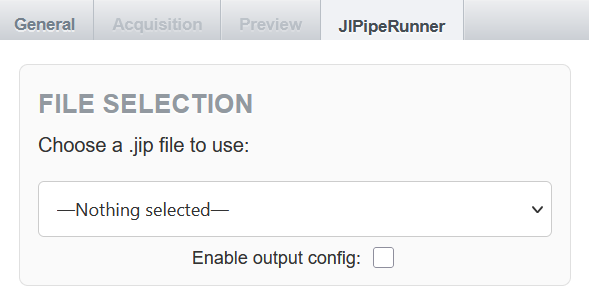
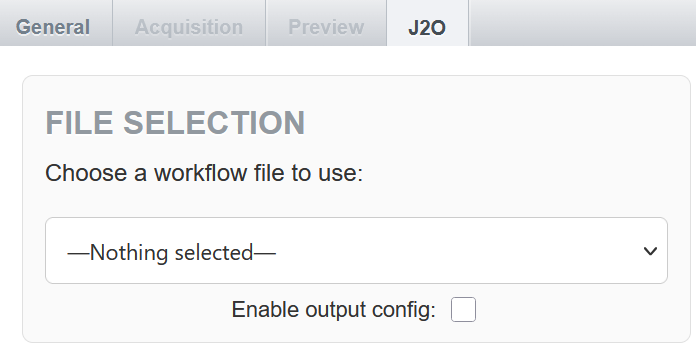
Made changes to the documentation according to recent new features and the namespace change from JIPipeRunner to J2O. More updates will follow.

diff --git a/Writerside/topics/User-interface.md b/Writerside/topics/User-interface.md
@@ -1,3 +1,63 @@
 # User interface
 
-Start typing here...
+If installed correctly, the J2O tab can be found in the right panel of the OMERO webclient:
+
+<p align="center">
+  <img src="RightPanelTab.png" alt="TabPanel.png"/>
+</p>
+
+Below you will find a detailed explanation of the interface sections you will see when opening the plugin.
+
+## FILE SELECTION
+
+J2O will load its content dynamically depending on the file you select at the top of this section. When checking **Enable output config**, the [output node configuration](#output-node-configuration) will be accessible.
+
+<p align="center">
+  <img src="FileSelectionSection.png" alt="FileSelectionSection.png"/>
+</p>
+
+J2O will automatically offer you all .jip files and RO-Crates that are accessible by your OMERO groups. If you have none available, you can upload files as attachments to any of your projects or datasets. To do so, select a dataset or project and go to <b>General → Attachments</b> in the right panel. Click the <b>+</b> to attach a file. To ensure compatibility, be sure that it adheres to the <a href="#pipeline-design-constraints">pipeline design constraints</a>.
+
+<p align="center">
+  <img src="AttachFiles.png" alt="Attach_JIP_File.png"/>
+</p>
+
+## RUNNING JOBS
+In this section you will find a list of all the JIPipe jobs currently running on the server that were initiated by the current user. They can be identified by the time and date of execution and the name of the associated workflow file. By clicking the ✖ next to the entry, you can terminate the associated job after confirming this action.
+
+![Job section](RunningJobsSection.png)
+
+You can also click on the name of a workflow to open a pop-up window that will display a live stream of its logfile:
+
+![Live log pop-up](LogPopUp.png)
+
+## NODE SUMMARY
+In this section you will find an overview of the nodes detected in the associated .jip file. This can be used as a debugging tool to see whether the JIPipe pipeline was constructed correctly according to the [preparing JIPipe workflows section](WorkflowDesign.md) and JIPipeRunner therefore automatically detects the right amount of nodes.
+
+![Node summary section](NodeSummarySection.png)
+
+## INPUT NODE CONFIGURATION
+This section will allow to enter the IDs of the datasets that contain the input images. On clicking the input field, a scrollable dropdown menu will be shown that lists all available datasets according to your OMERO group. You can simply click a listed dataset to add it to the input field. You can also search for a specific dataset by typing its name into the input field. To remove an entry from the input field, click the ✖ next to the ID.
+
+![Input node config section](InputNodeConfigSection.png)
+
+## OUTPUT NODE CONFIGURATION
+When checking **Enable output config** in the [file selection](#file-selection), the output configuration becomes available. Here you can choose a pre-existing project (the same way as selecting the input dataset ID) that you want to save the generated output dataset to and give the dataset a custom name. If you don't enter anything (either when not checking **Enable output config** or when you are not changing the placeholders) the outputs of your pipeline will be saved in a project called "JipipeResultsDefault". The images will be saved within that project in a dataset named after the .jip file and the start time of execution (e.g. FolderListTest.jip@01-09-2025_15:07:41).
+
+![Output node config section](OutputConfigSection.png)
+
+## PARAMETER CONFIGURATION
+This section contains the input fields of the parameters that are defined as reference parameters within the .jip file. Nodes with a predefined set of valid options will have a dropdown menu to choose from. Other nodes will accept strings, integers or floats as input depending on the node type. When hovering the **?** the plugin will display a tooltip with the description of the respective parameter (if it was set in the [project overview](https://jipipe.hki-jena.de/documentation/project-overview.html)).
+
+Below this section you will find the **Start JIPipeRunner** button to execute the selected .jip file.
+
+![Parameter config section](ParameterConfigSection.png)
+
+## LOG WINDOW
+Below the button that starts the pipeline execution, you will find the log window. During execution, the window will livestream the JIPipe logfile. This can be used to check on the current progress of the execution or to debug problems within the workflow. Any additional information will also be displayed here. For example, if an error occurs a helpful message will tell you what went wrong.
+
+![Log window section](LogWindowSection.png)
+
+The log window will only ever display the content of the log file from the most recent job started by the user. To review old log files or to inspect errors of jobs that ran in the background, you can find the log files under the attachment tab of the output dataset. By clicking on the file, an automated download will be started.
+
+![Old log files](FindLogFiles.png)

diff --git a/Writerside/topics/WorkflowDesign.md b/Writerside/topics/WorkflowDesign.md
@@ -3,38 +3,3 @@
 J2O imposes some constraints on the design of JIPipe workflows to ensure compatability with the plugin. In this section you will learn what to be aware of. 
 
 If your workflow does not comply to these constraints yet, it is quite easy to make the necessary changes.
-
-## Create user directories
-
-J2O utilizes JIPipe user directories to facilitate saving processed data to OMERO and using OMERO image data as input for custom scripts or expression nodes. 
-
-> To create user directories, navigate to the project overview and click the "Directories" button and select "Add new directory".
-
-### Output directories
-
-To store processed data back to OMERO you will need to create at least one output user directory. To mark a directory as output, include "output" in the key you set for the directory. These output directories will then need to be used in the [export nodes](#export-nodes).
-
-> Output directories are used to store both image and non-image data to OMERO
-
-### Input directories
-
-To use OMERO image data as input in custom scripts and JIPipe expression nodes, you need at least one input directory. To mark a directory as input, include "input" in the key you set for the directory.
-
-> Input directories can only be used to get image data from OMERO! For importing non-image data use RO-Crates, available since JIPipe 6.0.0
-
-
-## Input nodes
-
-### Image input
-To use your OMERO image data as input for workflows executed with J2O, your workflows need to use one of the following input nodes.
-
-![Input patterns](../images/assets/images/InputStructure.png)
-
-> The "Project user directory" node can be used by entering the key of an input user directory in its parameter config 
-### Non-image input
-Using non-image inputs in your workflows is only supported when your workflow is exported in a RO-Crate, a feature introduced in JIPipe 6.0.0. 
-
-
-## Export nodes
-
-## Reference parameters

diff --git a/Writerside/topics/Export-nodes.md b/Writerside/topics/Export-nodes.md
@@ -1,0 +1,13 @@
+# Export nodes
+Here you will find an overview of all supported nodes to save your processed data back to OMERO using J2O. If your workflow already uses these to export data, you don't need to change them. Otherwise, you will need to replace unsupported export nodes with one of these.
+
+> It is recommended to give your export nodes custom names to help users identify their purpose!
+
+Using these nodes, image data will be saved to OMERO datasets while non-image data will be attached to the respective datasets:
+![Supported export nodes](../images/assets/images/ExportNodes.png)
+
+To be fully compatible, J2O expects the *file-path* parameter of these nodes to use the PATH_COMBINE() expression with the first argument being an output user directory and the second argument being the name of the saved file, for example:
+
+![Export nodes expression](../images/assets/images/ExportNodeExpression.png)
+
+> The *auto_file_name* expression constructs the filename from the annotations of the exported file. While convenient, we recommend developers to give the exported files customized names instead, as [the auto_file_name expression can cause problems](Troubleshooting.md#solution-1-change-the-file-name-creation-in-the-workflow). 

diff --git a/Writerside/topics/Input-nodes.md b/Writerside/topics/Input-nodes.md
@@ -1,0 +1,18 @@
+# Input nodes
+Here you will find an overview of all supported nodes to import your OMERO data using J2O. If your workflow already uses these to import data, you don't need to change them. Otherwise, you will need to replace unsupported input nodes with one of these.
+
+> It is recommended to give your input nodes custom names to help users identify their purpose!
+
+
+## Image input
+To use your OMERO image data as input for workflows executed with J2O, your workflows need to use one of the following input nodes:
+
+![Image input nodes](../images/assets/images/InputStructure.png)
+
+> The "Project user directory" node can be used by entering the key of an input user directory in its parameter config. J2O assumes input user directories to contain subfolders, so if your workflows logic expects a single folder containing files, be sure to use the "Folder" node instead.
+
+
+## Non-image input
+Using non-image inputs from OMERO in your workflows is supported via the "File" and "File list" nodes:
+
+![File input nodes](../images/assets/images/FileNodes.png)

diff --git a/Writerside/topics/Reference-parameters.md b/Writerside/topics/Reference-parameters.md
@@ -1,0 +1,13 @@
+# Reference parameters
+
+If you want to allow your users to modify the parameters of a workflow from within the OMERO webclient before executing it, you will need to create reference parameters. 
+
+To do so, first navigate to the project overview. On the right panel, you will find References in the parameter tab:
+
+![References](../images/assets/images/ReferenceParameters.png)
+
+After clicking on References, create a group if you have not done so before using the *+ Add* button. Then, select a group and add the parameters you want by clicking *+ Add parameter reference*. After that, you can give the reference a custom name and description that will be displayed to users in the OMERO webclient to help them understand what the parameter does in your workflow:
+
+![References customization](../images/assets/images/ReferenceCustomization.png)
+
+> Note that complex parameters are not supported to be edited by users. J2O will give you a warning if your workflow is using a complex parameters.

diff --git a/Writerside/topics/Create-user-directories.md b/Writerside/topics/Create-user-directories.md
@@ -1,0 +1,15 @@
+# Create user directories
+
+J2O utilizes JIPipe user directories to facilitate saving processed data to OMERO and using OMERO image data as input for custom scripts or expression nodes.
+
+> To create user directories, navigate to the project overview and click the "Directories" button and select "Add new directory".
+
+## Output directories
+
+To store processed data back to OMERO you will need to create at least one output user directory. To mark a directory as output, include "output" in the key you set for the directory. These output directories will then need to be used in the [export nodes](Export-nodes.md).
+
+> Output directories are used to store both image and non-image data to OMERO
+
+## Input directories
+
+To use OMERO image data as input in custom scripts and JIPipe expression nodes, you need at least one input directory. To mark a directory as input, include "input" in the key you set for the directory.

diff --git a/Writerside/topics/README.md b/Writerside/topics/README.md
@@ -146,7 +146,7 @@ Below the button that starts the pipeline execution, you will find the log windo
 
 The log window will only ever display the content of the log file from the most recent job started by the user. To review old log files or to inspect errors of jobs that ran in the background, you can find the log files under the attachment tab of the output dataset. By clicking on the file, an automated download will be started.
 
-![Old log files](OldLogFiles.png)
+![Old log files](FindLogFiles.png)
 
 
 ## Pipeline design constraints
